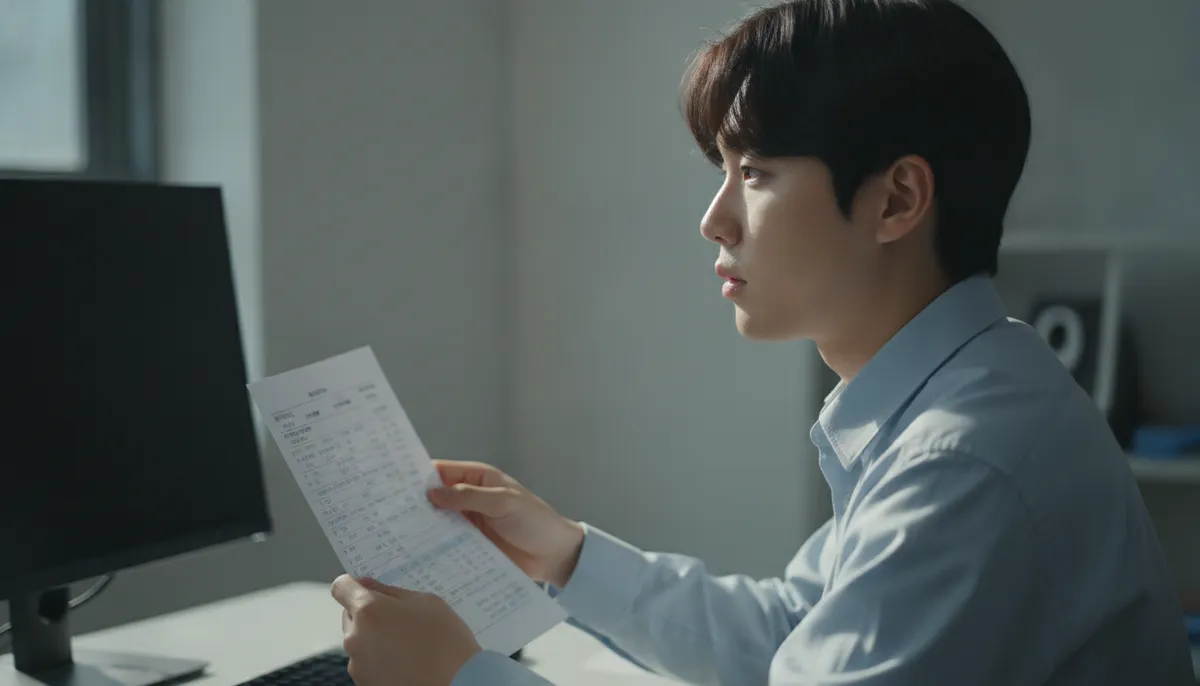
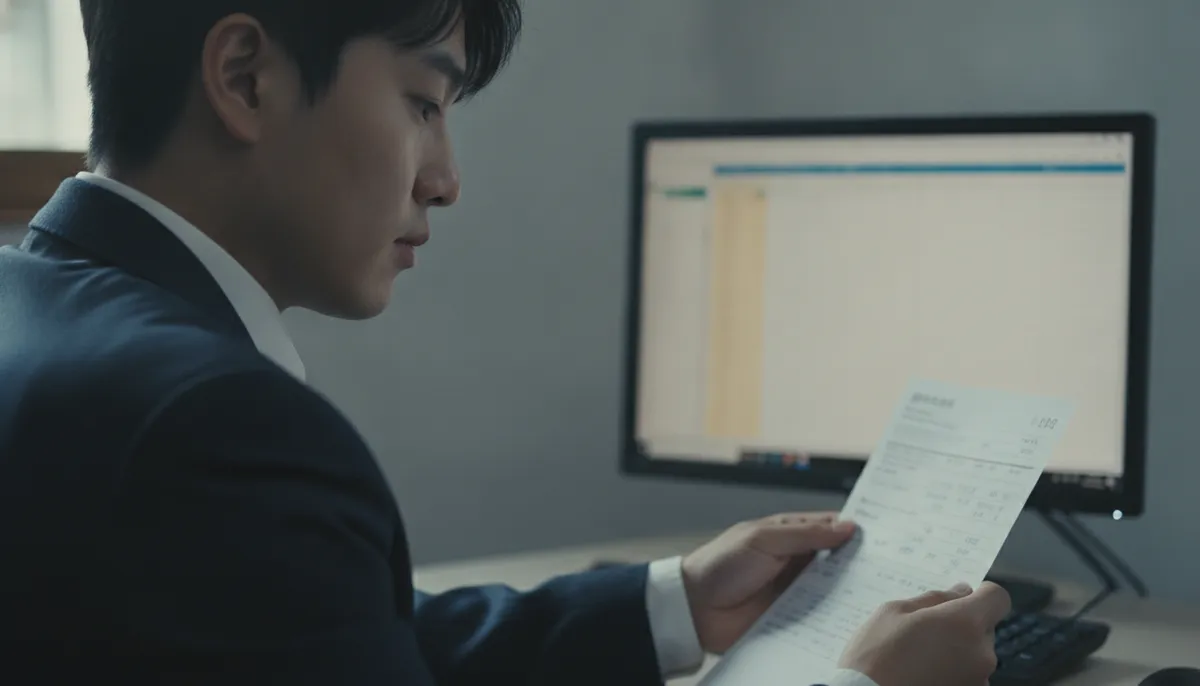
이미지 4장 재생성(운영자 피드백: 폰 화면·우편물·도시락·모니터), gihanhu 두 번째 사진 소제목 앞으로 이동

diff --git a/guide/gihanhu.html b/guide/gihanhu.html
@@ -124,8 +124,7 @@
 
   <article>
     <p class="lead">5월 31일이 지났다고 해서, 떼인 3.3%를 돌려받을 기회까지 사라진 것은 아닙니다. 신고를 아예 안 했다면 <b>기한 후 신고</b>, 신고는 했지만 잘못했다면 <b>경정청구</b>라는 구제 수단이 있고, 둘 다 지난 5년 치까지 소급됩니다. 과거에 3.3% 떼인 소득이 있는데 5월을 그냥 보낸 적이 있다면, 이 글의 순서대로 확인해보세요.</p>
-    <figure class="fig"><img src="/img/gihanhu-real1.webp" width="1200" height="686" alt="서류 상자에서 오래된 세금 서류를 꺼내 들고 놀라는 사람" fetchpriority="high" decoding="async"></figure>
-    <figure class="fig"><img src="/img/gihanhu-real2.webp" width="1200" height="686" alt="노트북 앞에서 서류 두 장을 좌우에 놓고 비교하는 사람" loading="lazy" decoding="async"></figure>
+    <figure class="fig"><img src="/img/gihanhu-real1.webp" width="1200" height="686" alt="뜯은 우편물을 들고 놀라는 사람" fetchpriority="high" decoding="async"></figure>
 
     <h2>내 상황은 어느 쪽일까</h2>
     <p>출발점은 딱 하나입니다. <b>그해 5월에 종합소득세 신고를 했느냐, 안 했느냐.</b></p>
@@ -135,6 +134,7 @@
     </ul>
     <p>이름은 어렵지만 목적은 같습니다. "그때 끝냈어야 할 정산을 지금 마무리하는 것"이고, 그 결과 돌려받을 세금이 있으면 환급됩니다.</p>
 
+    <figure class="fig"><img src="/img/gihanhu-real2.webp" width="1200" height="686" alt="노트북 앞에서 서류 두 장을 좌우에 놓고 비교하는 사람" loading="lazy" decoding="async"></figure>
     <h2>기한 후 신고: 신고를 아예 안 했을 때</h2>
     <p><b>언제까지 가능한가.</b> 환급을 받으려는 경우라면 해당 연도 신고 기한으로부터 <b>5년 이내</b>에 하면 됩니다. 예를 들어 지금이 2026년이라면, 2021년 귀속 소득(2022년 5월이 신고 기한이었던 소득)까지 소급해서 신고할 수 있습니다.</p>
     <p><b>방법.</b> 홈택스 로그인 → 세금신고 → 종합소득세 → <b>기한후신고</b> 메뉴에서 신고할 연도를 선택하면 됩니다. 그해에 3.3% 떼인 소득 내역은 대부분 자동으로 조회되므로, 절차는 <a href="/guide/jongsose.html">정기 신고</a>와 거의 같습니다.</p>

diff --git a/guide/bigwase.html b/guide/bigwase.html
@@ -147,7 +147,7 @@
       <li><b>지급 기준이 급여 규정이나 근로계약서에 있어야 합니다.</b> 명세서에 식대가 따로 적혀 있다면 대부분 갖춰진 조건입니다.</li>
     </ul>
     <p>한도를 넘는 부분은 과세됩니다. 식대를 월 30만 원 받으면 20만 원은 비과세, 10만 원은 과세 대상입니다.</p>
-    <figure class="fig"><img src="/img/bigwase-real2.webp" width="1200" height="686" alt="나란히 놓인 도시락 두 개, 하나에만 붙은 노란 메모지" loading="lazy" decoding="async"></figure>
+    <figure class="fig"><img src="/img/bigwase-real2.webp" width="1200" height="686" alt="나란히 놓인 도시락 두 개, 하나만 뚜껑이 열린 모습" loading="lazy" decoding="async"></figure>
 
     <h2>얼마나 차이 날까: 월 300만 원으로 계산해 보면</h2>
     <p>세전 월급 300만 원, 부양가족 없이 혼자인 경우입니다. 금액은 <a href="/pay/">월급 실수령액 계산기</a>와 같은 방식(2026년 요율·간이세액표)으로 계산했습니다.</p>
